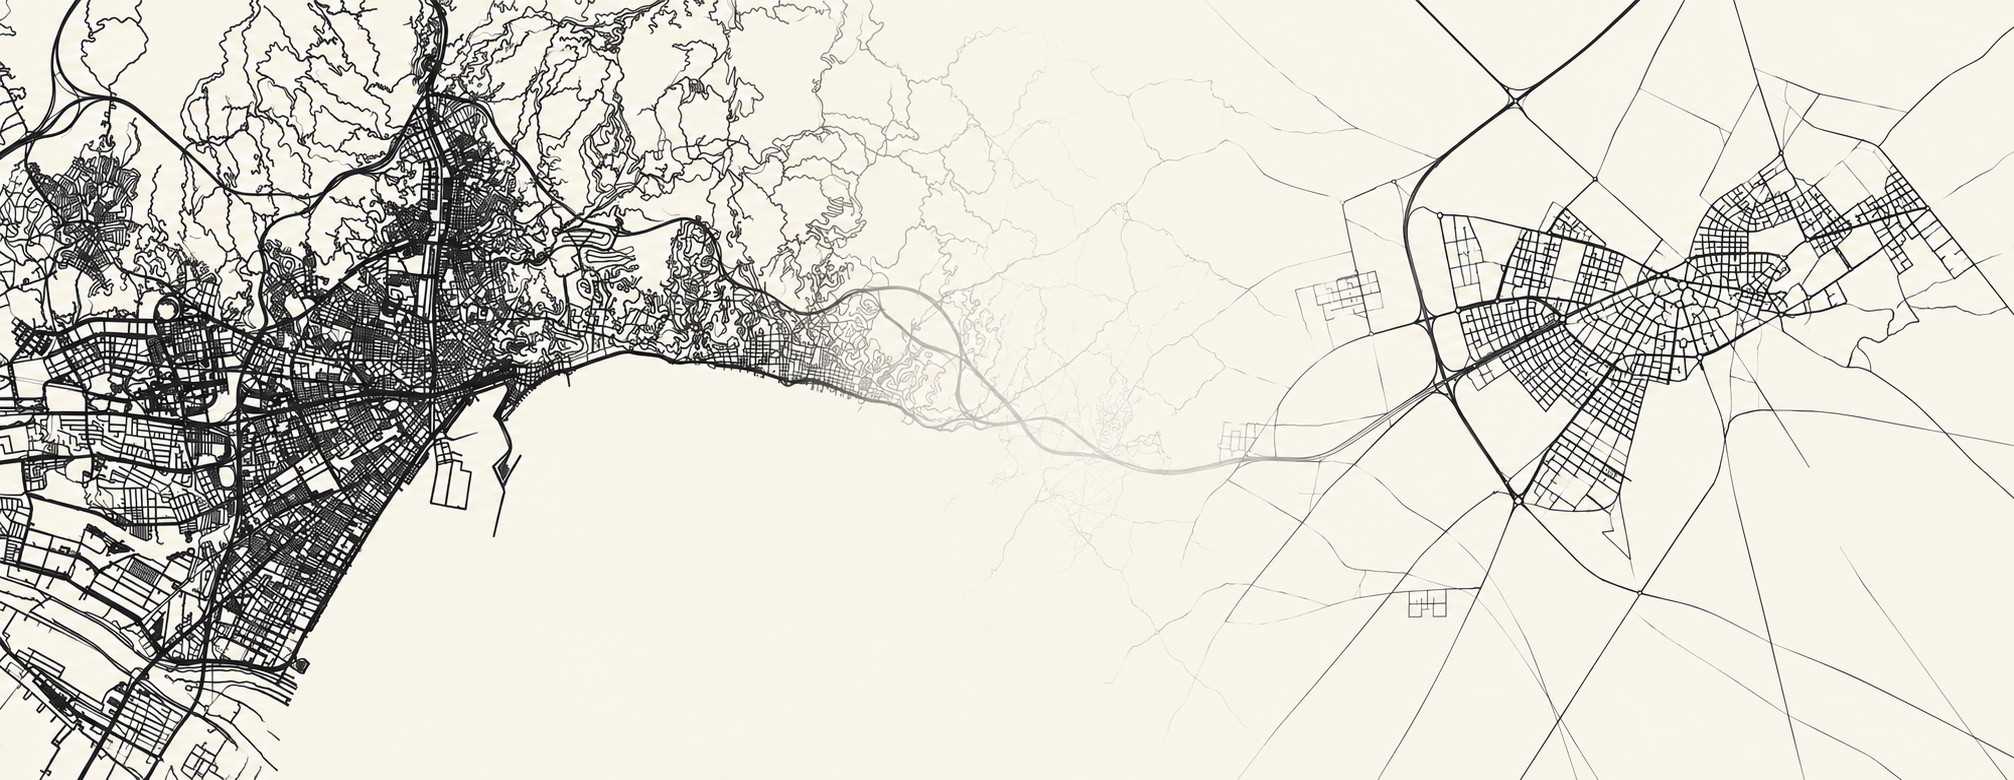
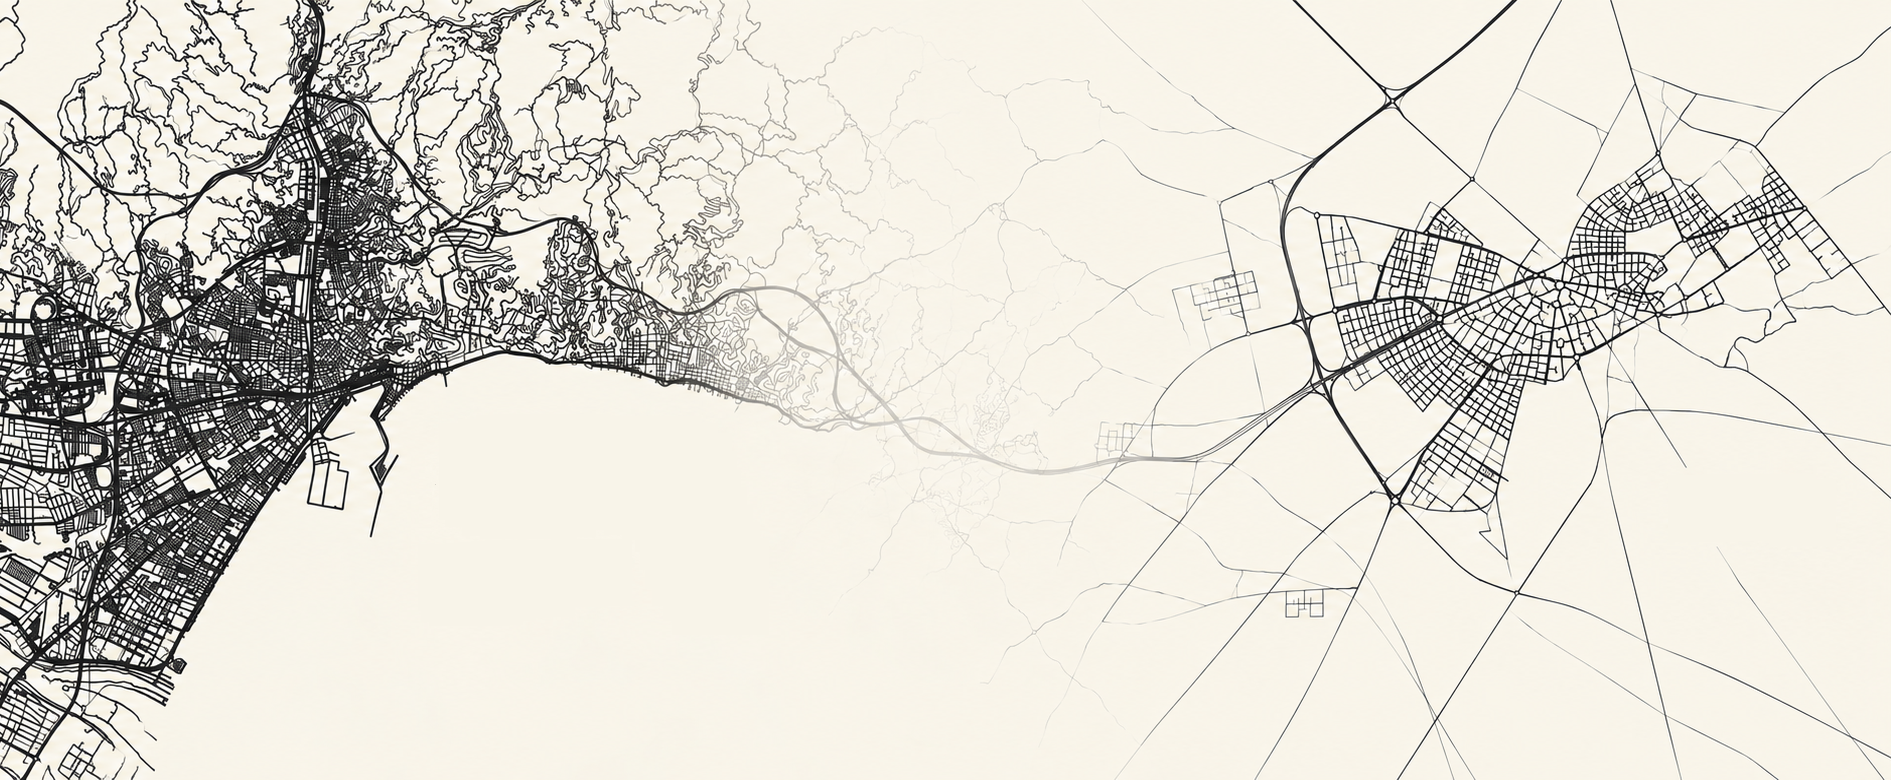
Actualización web

diff --git a/index.html b/index.html
@@ -236,6 +236,11 @@
             Para reservar, indícanos qué tipo de habitación necesitas
             y cuántas noches.
           </p>
+          <div class="hotel-contact">
+            <a href="https://www.hotelmairena.com/" target="_blank" rel="noopener noreferrer">Visitar web</a>
+            <a href="tel:+34955745510">955 745 510</a>
+            <a href="https://maps.app.goo.gl/vgnpBUnrnWaZpf7B6" target="_blank" rel="noopener noreferrer">Ver ubicación</a>
+          </div>
         </div>
 
       </details>
@@ -256,6 +261,11 @@
           <p>
             Los precios podrían modificarse para 2027.
           </p>
+          <div class="hotel-contact">
+            <a href="https://www.hostalbarsanpedro.es/" target="_blank" rel="noopener noreferrer">Visitar web</a>
+            <a href="tel:+34955746327">955 746 327</a>
+            <a href="https://maps.app.goo.gl/A2naoXd6UCEvmgA87" target="_blank" rel="noopener noreferrer">Ver ubicación</a>
+          </div>
         </div>
 
       </details>
@@ -277,6 +287,10 @@
             Dispone de pocas plazas.
             Las reservas todavía no están abiertas.
           </p>
+          <div class="hotel-contact">
+            <a href="tel:+34955745237">955 745 237</a>
+            <a href="https://maps.app.goo.gl/d7SdoBFoBsBAZdhAA" target="_blank" rel="noopener noreferrer">Ver ubicación</a>
+          </div>
         </div>
 
       </details>
@@ -297,6 +311,11 @@
           <p>
             Las reservas estarán disponibles más adelante.
           </p>
+          <div class="hotel-contact">
+            <a href="https://airedelosalcoreshostal.com/" target="_blank" rel="noopener noreferrer">Visitar web</a>
+            <a href="tel:+34688252406">688 252 406</a>
+            <a href="https://maps.app.goo.gl/BbKX3wv16voKh9Kt9" target="_blank" rel="noopener noreferrer">Ver ubicación</a>
+          </div>
         </div>
 
       </details>

diff --git a/styles.css b/styles.css
@@ -365,7 +365,8 @@ h3 {
    BOTONES
 ========================= */
 
-.button {
+.button,
+.hotel-contact a {
   display: inline-block;
 
   margin-top: 18px;
@@ -436,6 +437,35 @@ h3 {
 .hotel-info p {
   margin-top: 8px;
   margin-bottom: 8px;
+}
+
+.hotel-contact {
+  display: flex;
+  flex-wrap: wrap;
+  gap: 12px;
+  margin-top: 20px;
+  padding-top: 20px;
+  border-top: 1px solid var(--border);
+}
+
+.hotel-contact a {
+  display: inline-flex;
+  align-items: center;
+  justify-content: center;
+  min-height: 44px;
+  margin-top: 0;
+  padding: 10px 18px;
+  font-size: 0.9rem;
+  white-space: nowrap;
+}
+
+.hotel-contact a:hover {
+  background: var(--background);
+}
+
+.hotel-contact a:focus-visible {
+  outline: 2px solid var(--accent);
+  outline-offset: 4px;
 }
 
 
@@ -685,9 +715,9 @@ h3 {
 
 .gift-account {
   display: grid;
-  grid-template-columns: minmax(0, 1fr) auto;
+  grid-template-columns: minmax(0, 1fr);
   align-items: center;
-  justify-content: center;
+  justify-items: center;
   gap: 8px;
 }
 
